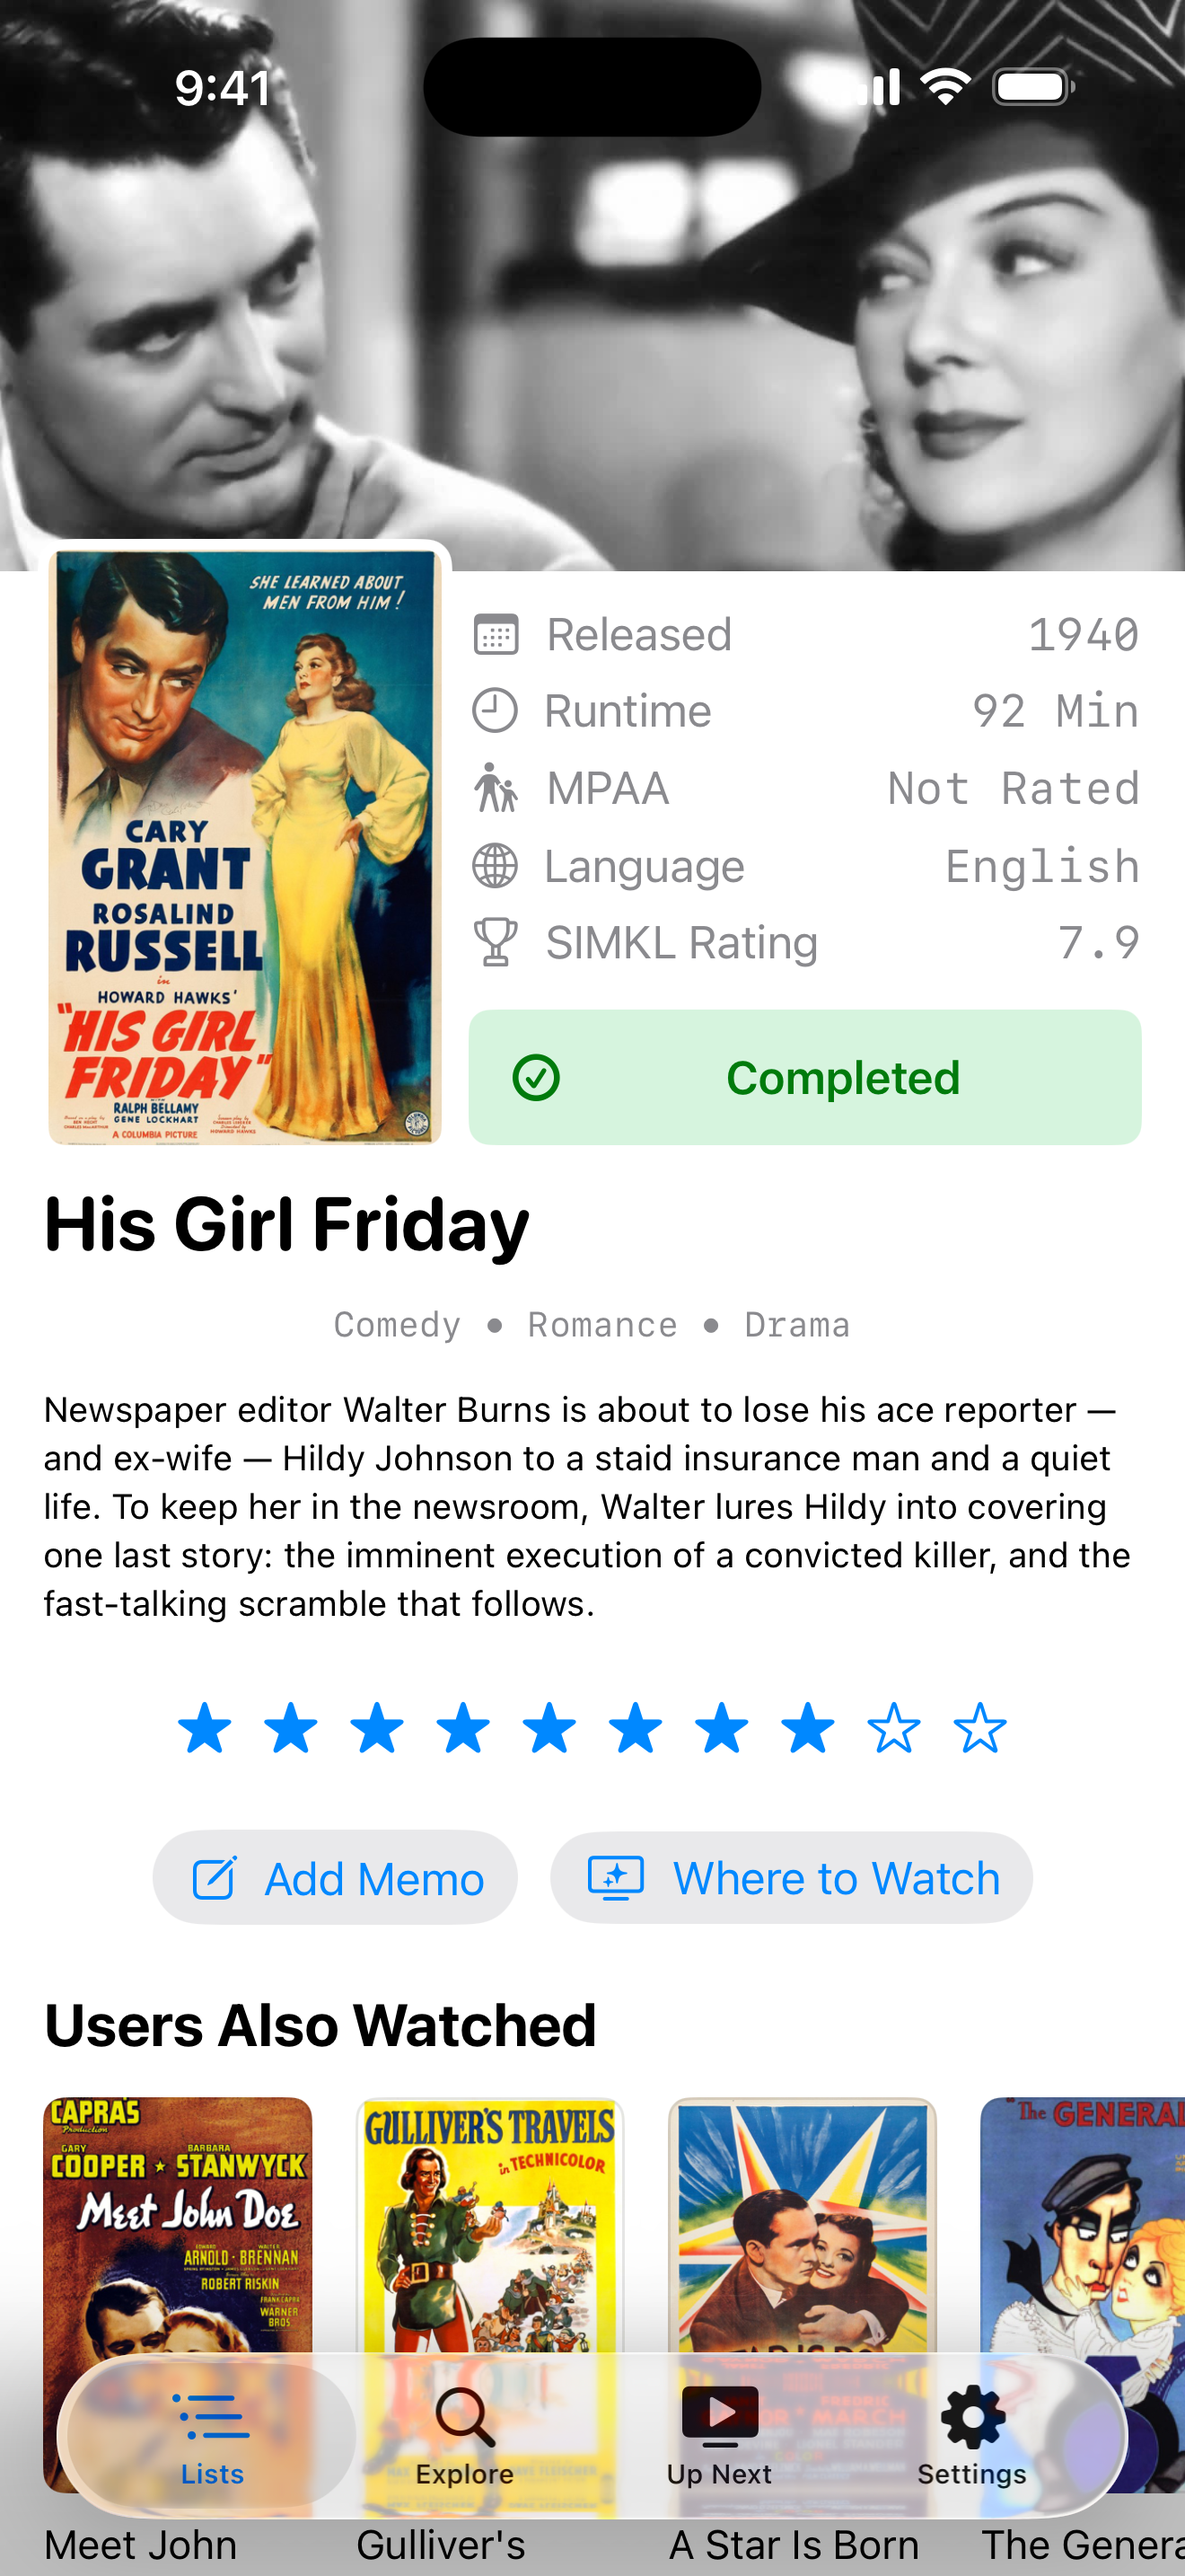
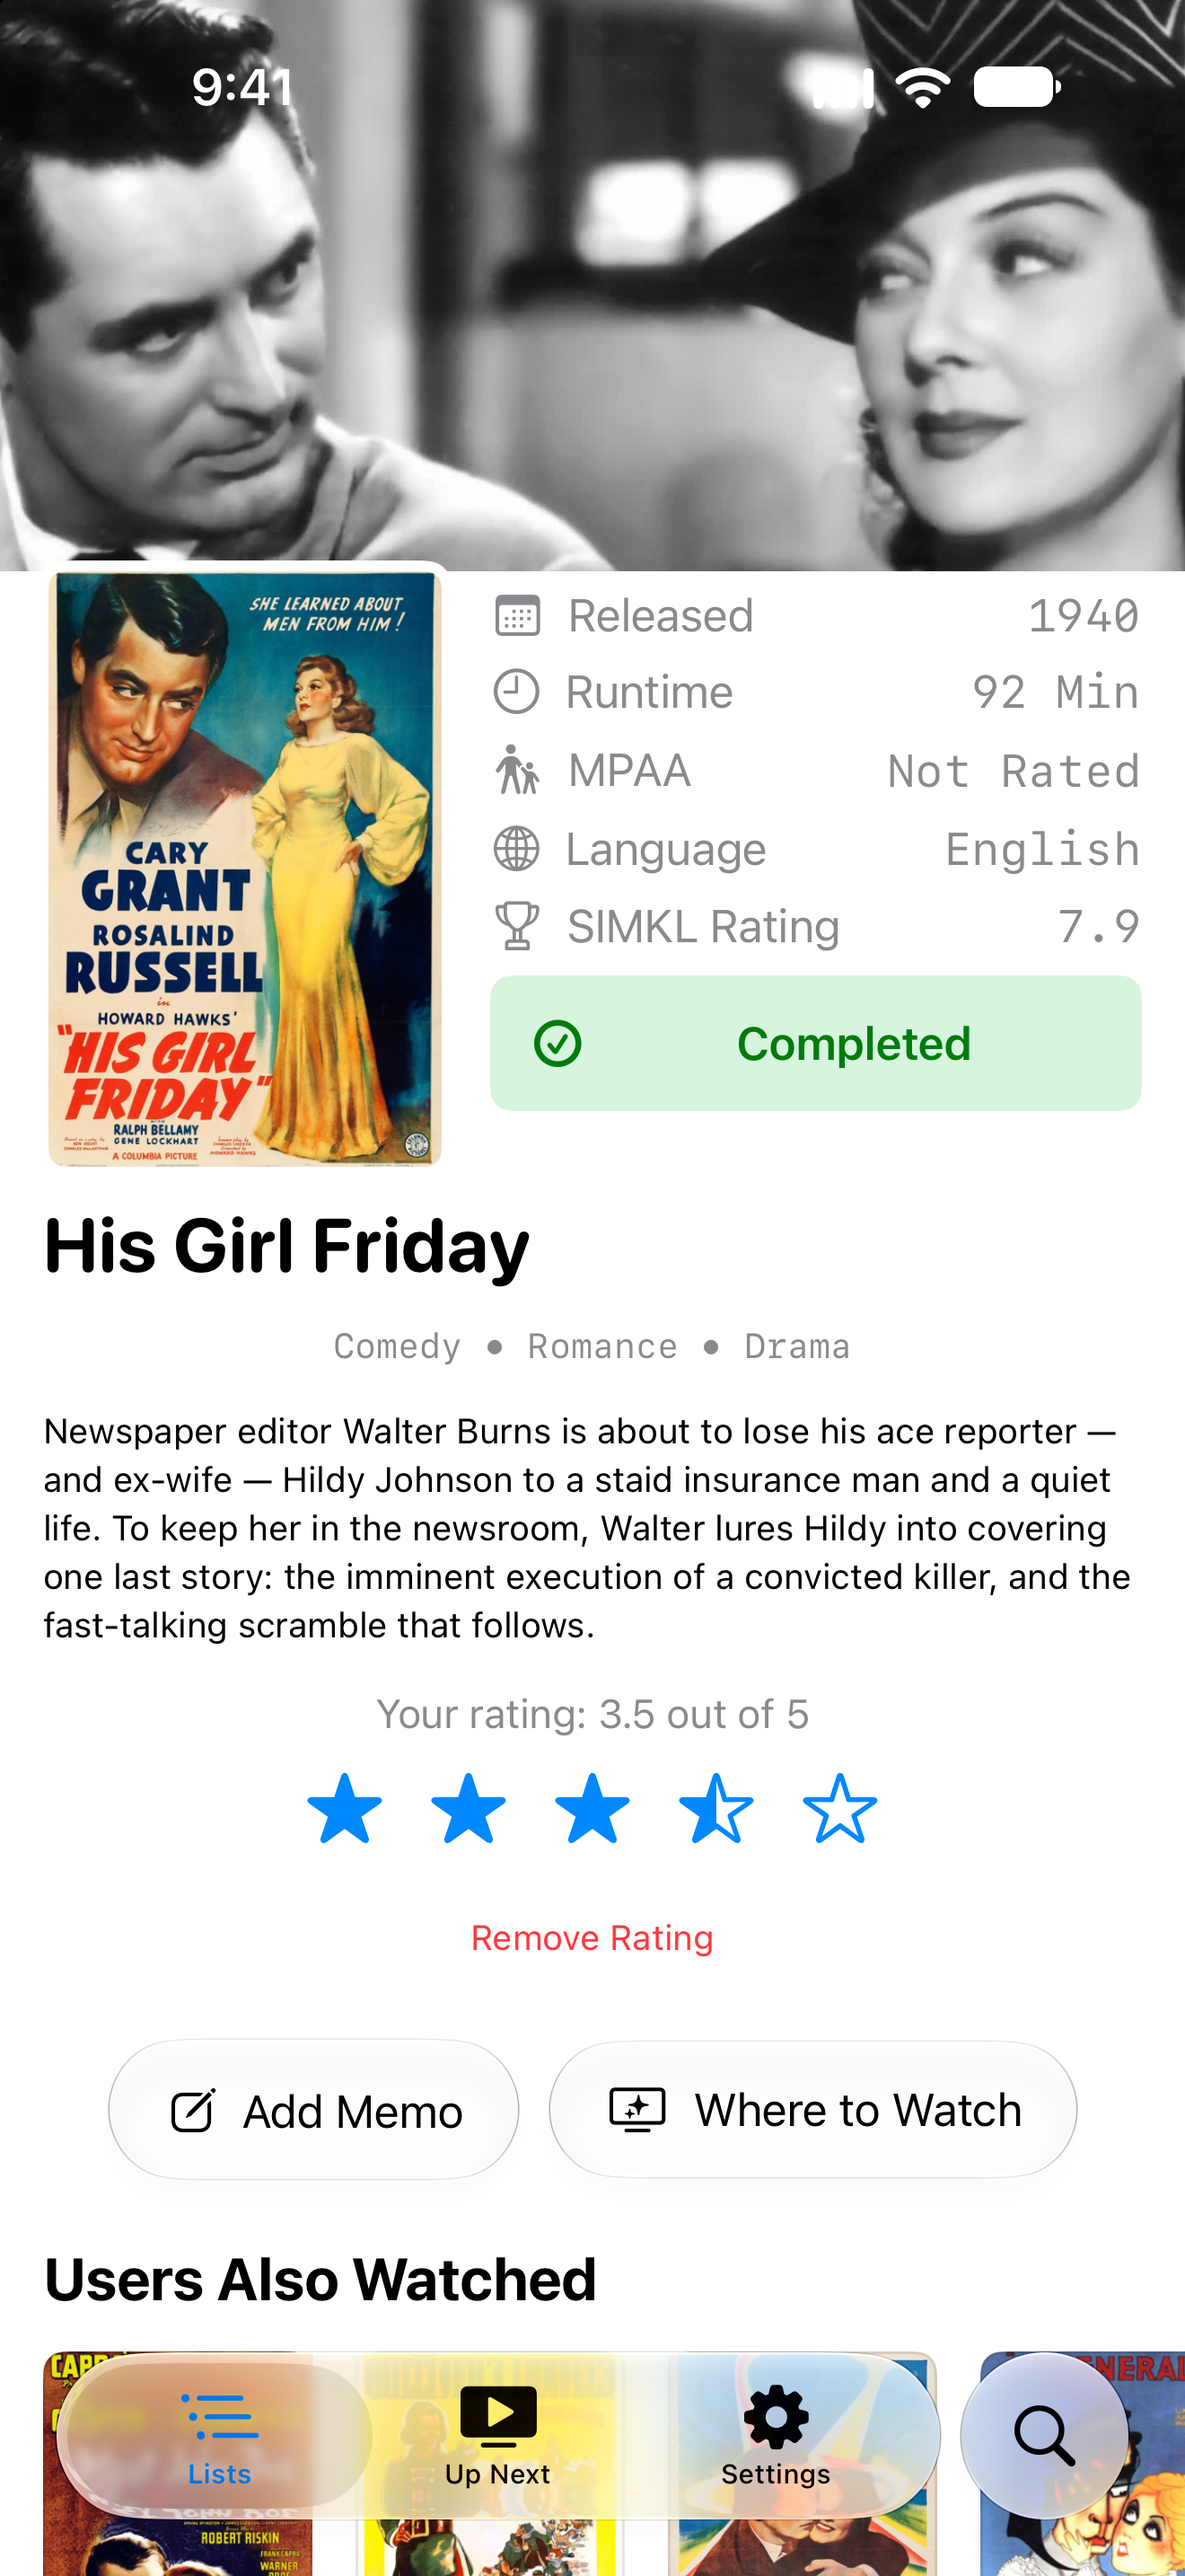
chore(marketing): refresh App Store screenshots for current UI

diff --git a/simalytics/Utils/ScreenshotSeedData.swift b/simalytics/Utils/ScreenshotSeedData.swift
@@ -34,7 +34,7 @@
       [
         movie(900101, "The General", 1926, "the-general-1926", "completed", rating: 9, added: 300, watched: 80),
         movie(900102, "The Cabinet of Dr. Caligari", 1920, "the-cabinet-of-dr-caligari-1920", "completed", rating: 9, added: 210, watched: 60),
-        movie(900103, "His Girl Friday", 1940, "his-girl-friday-1940", "completed", rating: 8, added: 120, watched: 30),
+        movie(900103, "His Girl Friday", 1940, "his-girl-friday-1940", "completed", rating: 7, added: 120, watched: 30),
         movie(900104, "Charade", 1963, "charade-1963", "completed", rating: 8, added: 90, watched: 14),
         movie(900105, "The Kid", 1921, "the-kid-1921", "completed", rating: 9, added: 260, watched: 70),
         movie(900106, "Meet John Doe", 1941, "meet-john-doe-1941", "completed", rating: 8, added: 150, watched: 40),

diff --git a/marketing/app-store-screenshots/generate.py b/marketing/app-store-screenshots/generate.py
@@ -272,6 +272,21 @@ def draw_headline(base: Image.Image, title: str, x: int, y: int, max_width: int,
         d.text((x, ly), line, fill=WHITE, font=title_font)
 
 
+def restore_headline(base: Image.Image, device: str, slide, index: int):
+    """Keep approved headline rendering stable across macOS font updates.
+
+    The plates contain the original headline and its chalkboard background,
+    ending above the device frame. Changed copy falls back to live text above.
+    """
+    path = HERE / "headlines" / device / f"{index:02d}-{slide['screen']}.png"
+    if path.exists():
+        with Image.open(path) as plate:
+            if plate.info.get("Headline") == slide["title"]:
+                if plate.width != base.width:
+                    raise ValueError(f"Headline plate width does not match canvas: {path}")
+                base.paste(plate, (0, 0))
+
+
 def compose(device: str, slide, index: int):
     w, h = DEVICES[device]
     img = backdrop(w, h)
@@ -297,6 +312,7 @@ def compose(device: str, slide, index: int):
         img.alpha_composite(shadow, (fx - spad, fy - spad))
         img.alpha_composite(frame, (fx, fy))
 
+    restore_headline(img, device, slide, index)
     out_dir = OUT / device
     out_dir.mkdir(parents=True, exist_ok=True)
     img.convert("RGB").save(out_dir / f"{index:02d}-{slide['screen']}.png", optimize=True)

diff --git a/marketing/app-store-screenshots/seed-fixtures.py b/marketing/app-store-screenshots/seed-fixtures.py
@@ -29,7 +29,7 @@ OUT = REPO / "simalytics" / "Utils" / "ScreenshotSeedData.swift"
 MOVIES = {
     "the-general-1926": ("completed", 9, 300, 80),
     "the-cabinet-of-dr-caligari-1920": ("completed", 9, 210, 60),
-    "his-girl-friday-1940": ("completed", 8, 120, 30),
+    "his-girl-friday-1940": ("completed", 7, 120, 30),
     "charade-1963": ("completed", 8, 90, 14),
     "the-kid-1921": ("completed", 9, 260, 70),
     "meet-john-doe-1941": ("completed", 8, 150, 40),
@@ -304,7 +304,8 @@ TEMPLATE = '''//
         simkl: simkl, added_to_watchlist_at: iso(added), release_date: "\\(year)-01-01",
         last_watched_at: watchedEps != nil ? iso(next?.daysAgo ?? 30) : nil,
         user_rated_at: rating != nil ? iso(added) : nil, user_rating: rating,
-        status: status, watched_episodes_count: watchedEps, total_episodes_count: totalEps,
+        status: status, next_to_watch: next.map {{ "S\\($0.season)E\\($0.episode)" }},
+        watched_episodes_count: watchedEps, total_episodes_count: totalEps,
         title: title, poster: poster, year: year,
         next_to_watch_info_title: next?.title,
         next_to_watch_info_season: next?.season,

diff --git a/marketing/app-store-screenshots/README.md b/marketing/app-store-screenshots/README.md
@@ -26,11 +26,11 @@ python3 marketing/app-store-screenshots/generate.py
 ## Full reproduce (real captures end-to-end)
 
 ```bash
-# iPhone 17 Pro Max @ iOS 26.x
+# iPhone 18 Pro Max @ iOS 27.x
 marketing/app-store-screenshots/capture.sh <iphone-sim-udid> \
   marketing/app-store-screenshots/raw/iphone-6.9
 
-# iPad Pro 13" @ iOS 26.x
+# iPad Pro 13" @ iPadOS 27.x
 marketing/app-store-screenshots/capture.sh <ipad-sim-udid> \
   marketing/app-store-screenshots/raw/ipad-13
 
@@ -41,6 +41,17 @@ python3 marketing/app-store-screenshots/generate.py
 `xcrun simctl list devices available` lists simulator UDIDs. `capture.sh` requires
 both the iOS 26+ SDK and an iOS 26+ simulator runtime so the captured system chrome
 renders with Liquid Glass; it exits before building when either requirement is not met.
+Captures use light appearance, the standard Large text size, and the app's five-star
+rating preference. The featured title is rated 3½ stars to show half-star support.
+
+Before compositing, inspect the iPhone Explore capture. Native search activates the
+keyboard on entry. For the browsing screenshot, launch Explore again with the same
+fixture environment, dismiss any first-use keyboard tutorial, and drag downward in
+the content to dismiss the keyboard interactively (do not tap Cancel, which returns
+to the previous tab). Keep the query empty and the shelves at the top, then replace
+`raw/iphone-6.9/03-explore.png` with a new `simctl io <device> screenshot` capture.
+The October 2026 set used the Orca emulator skill for this interaction; its captured
+screen includes the native bottom search field with the keyboard dismissed.
 
 ## How the data gets in (public domain, offline)
 
@@ -100,6 +111,12 @@ re-run `capture.sh`.
   already matches a real capture, so no stretch, no notch.
 - **Status bar** — baked in natively by `capture.sh` (`simctl status_bar override`,
   9:41 / full battery / Wi-Fi / signal).
+- **Headlines** — `headlines/<device>/*.png` preserve the approved headline artwork
+  and surrounding backdrop from the original set. This prevents host macOS font
+  updates from changing the marketing typography when only app screens change.
+  Each plate stores its headline in PNG metadata; edited copy in `SLIDES` falls
+  back to fresh text rendering. Remove or regenerate the plates when deliberately
+  redesigning the background or headline layout.
 
 Re-rasterize a frame after editing its SVG (needs `librsvg`):
 
@@ -118,6 +135,7 @@ marketing/app-store-screenshots/
 ├── make-fanart.py      # derives fallback fanart when no verified-PD landscape still exists
 ├── backgrounds/        # blackboard.jpg — the composite backdrop
 ├── frames/             # <device>.svg sources + pre-rasterized <device>.png (iphone-16, ipad-13)
+├── headlines/<device>/ # original headline/background plates, with headline metadata
 ├── pd-posters/         # verified public-domain poster JPEGs (<key>.jpg)
 ├── raw/<device>/       # per-device captures (01-lists, 02-upnext, 03-explore)
 ├── output/<device>/    # composited App Store PNGs
